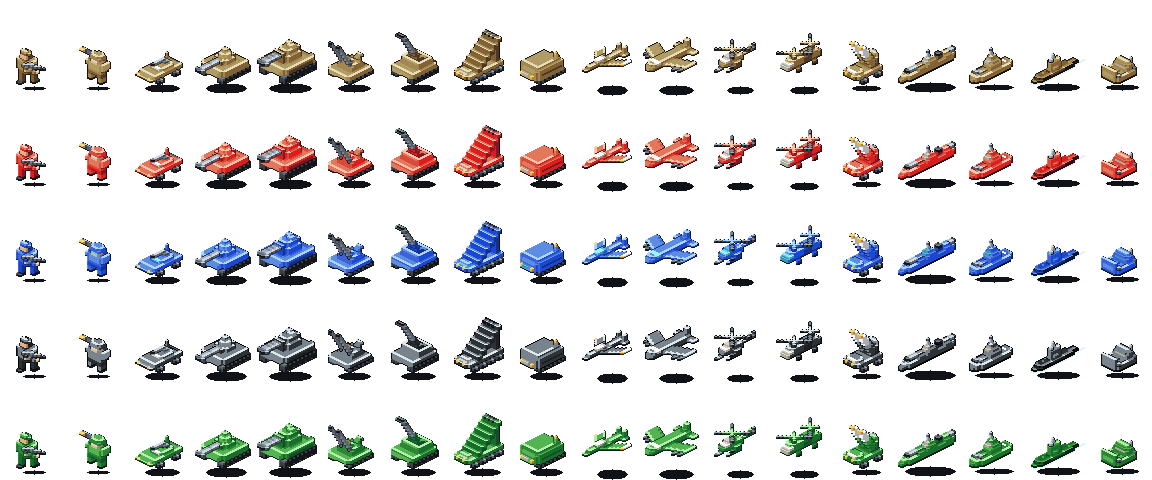
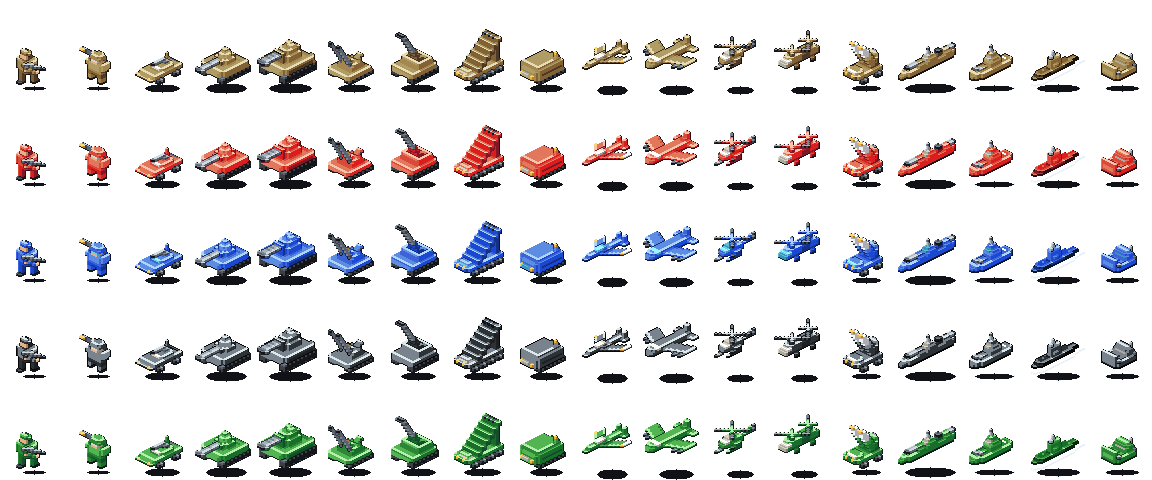
Anchor every pose to the cell, and bob a whole board texel
A cell placed each pose by centring its OWN rendered bbox and sized the
cast shadow off that pose's own sprite width. Both are properties of the
crop, not of the unit, so a key pose that changes the crop moves the
unit: t_copter's pose B is 4px wider than its A, which slid the whole
helicopter 2px sideways every beat and pumped its shadow from 159px to
173px with it. `test_land_units_keep_their_cast_shadow` skipped the
non-land kinds, which is how it shipped.

Placement is now by the model's SCREEN ORIGIN — `voxel.sprite_origin`,
pinned to pose A's box, cached per unit — and every shadow radius comes
from pose A's footprint width (compose_cell's `footprint_w`). Measured
over all 18 units: every voxel a pose shares with pose A lands on the
same cell pixel, and every cast shadow is pixel-identical across the
beat.

The bob is `atlas.BOB_PX = 4`, one board texel, in place of the old 1px.
The board draws this 64x96 cell at 0.25 scale, so 1px moved no visible
pixel at all — it only changed which source pixel the resample kept,
which is a flicker and not a hover. What holds still under it is the
SURFACE (compose_cell's `ground`): the cast shadow, a ship's
displacement ellipse, its running wake and its waterline foam all stay
on the water, so an aircraft gains altitude over its own shadow and a
hull rides a swell past a fixed foam line.

Two other readings of the sea bob were rendered and measured first.
Settling the hull into a pinned ellipse reads best by eye and buries the
[…]

diff --git a/spritegen/voxel.py b/spritegen/voxel.py
@@ -182,6 +182,28 @@ def _bounds(model: Model, k: int = 1) -> tuple[Anchors, int, int, int, int]:
     return anchors, minx, miny, w, h
 
 
+def sprite_origin(model: Model, k: int = 1) -> tuple[int, int]:
+    """Where model space's screen origin sits inside the rendered sprite.
+
+    A sprite is cropped to the pose it holds, so its top-left corner is a
+    different point of the MODEL for every pose: the voxel at screen (sx, sy)
+    lands on sprite pixel (sx - minx, sy - miny). A caller that wants two
+    poses of one unit to stand in the same place therefore has to place them
+    by this origin — `(x0 - minx, y0 - miny)` equal — rather than by centring
+    each pose's own bounding box, which slides the whole model sideways every
+    time a limb or a rotor changes the crop (see `atlas.unit_cell`).
+    """
+    _, minx, miny, _, _ = _bounds(model, k)
+    return minx, miny
+
+
+def sprite_size(model: Model, k: int = 1) -> tuple[int, int]:
+    """The (width, height) `render` will crop this model to, without rendering
+    it — the other half of what pose-invariant placement needs."""
+    _, _, _, w, h = _bounds(model, k)
+    return w, h
+
+
 @dataclass
 class IndexedSprite:
     """A rendered sprite plus the material id behind every pixel.
@@ -829,6 +851,9 @@ def compose_cell(
     dx: int = 0,
     wake: bool = False,
     shadow: bool = True,
+    origin: tuple[int, int] | None = None,
+    footprint_w: int | None = None,
+    ground: int | None = None,
 ) -> Image.Image:
     """Center a rendered sprite on a transparent atlas cell with its shadow.
 
@@ -860,26 +885,41 @@ def compose_cell(
     pixels taken back out and can never be a second opinion on the art. The
     waterline foam is why that matters: it is placed against the composed
     cell's own spans, so a shadow that was never drawn would move the foam.
+
+    The last three arguments are what lets a SECOND pose of the same unit be
+    the same unit moving rather than a second composition. `origin` places the
+    sprite's top-left corner outright, so a caller can pin two crops by their
+    model origin (`sprite_origin`) instead of centring each one's own box.
+    `footprint_w` is the width every shadow radius is taken from — the unit's
+    footprint on the ground, which a raised rotor or a swung barrel does not
+    change. `ground` is the SURFACE the unit is over, which is not the row it
+    rides at once it bobs: the shadow, the displacement ellipse, the running
+    wake and the waterline foam all stay here, so a ship that rises a board
+    texel rides a swell instead of dragging the sea up with it. All three
+    default to the single-pose behaviour: centred crop, the sprite's own
+    width, and the surface right under the unit.
     """
     cell_w, cell_h = cell
     out = Image.new("RGBA", (cell_w, cell_h), (0, 0, 0, 0))
     w, h = sprite.size
     if bottom is None:
         bottom = cell_h - (AIR_BOTTOM if kind == "air" else GROUND_BOTTOM)
-    x0 = (cell_w - w) // 2 + dx
-    y0 = bottom - h
+    x0, y0 = origin if origin is not None else ((cell_w - w) // 2 + dx, bottom - h)
+    if ground is None:
+        ground = bottom
+    fw = w if footprint_w is None else footprint_w
 
     cast: list[tuple[int, int]] = []
     sx, sy = SHADOW_OFFSET
     if kind == "sea":
         # Ships sit IN the water: a flat displacement shading right under
         # the hull instead of a floating blob, then foam at the waterline.
-        rx = max(6, int(w * 0.42))
+        rx = max(6, int(fw * 0.42))
         cast = _shadow_ellipse(
-            out, cell_w // 2 + dx + sx, bottom - 1 + sy, rx, max(2, rx // 5)
+            out, cell_w // 2 + dx + sx, ground - 1 + sy, rx, max(2, rx // 5)
         )
     elif kind == "air":
-        rx = max(6, int(w * 0.30))
+        rx = max(6, int(fw * 0.30))
         cast = _shadow_ellipse(
             out,
             cell_w // 2 + dx + sx * 2,
@@ -888,15 +928,20 @@ def compose_cell(
             max(2, rx // 3),
         )
     elif kind == "land":
-        rx = max(4, int(w * 0.34))
+        rx = max(4, int(fw * 0.34))
         cast = _shadow_ellipse(
-            out, cell_w // 2 + dx + sx, bottom - 1 + sy, rx, max(2, rx // 4)
+            out, cell_w // 2 + dx + sx, ground - 1 + sy, rx, max(2, rx // 4)
         )
     place_in_cell(out, sprite, x0, y0)
     if kind == "sea":
         if wake:
-            _wake(out, sprite, x0, y0)
-        _waterline_foam(out)
+            # Running foam is the WATER's, not the hull's, so it is left on
+            # the surface: a bobbed hull rises out of its own wake rather than
+            # carrying it up. Measured on the sub, whose wake is a third of
+            # its silhouette, that is the difference between a frame B that
+            # reads as itself and one that reads as the battleship.
+            _wake(out, sprite, x0, ground - h)
+        _waterline_foam(out, ground)
     if not shadow:
         _erase_shadow(out, cast)
     return out
@@ -962,6 +1007,10 @@ def _wake(img: Image.Image, sprite: Image.Image, x0: int, y0: int) -> None:
     swallowed the whole length of it and left the hull nothing but its stern
     trail. `_erase_shadow` keeps a shadow pixel the wake has taken, so the
     figure sheet is unmoved by this.
+
+    `y0` is where the hull sits ON THE WATER, which is not always where it is
+    drawn: a bobbed hull passes the row it rose from, because the foam it
+    broke stays on the surface (see compose_cell's `ground`).
     """
     px = img.load()
     sp = sprite.load()
@@ -990,21 +1039,28 @@ def _wake(img: Image.Image, sprite: Image.Image, x0: int, y0: int) -> None:
         fleck(stern_x + k, y + 1)
 
 
-def _waterline_foam(img: Image.Image) -> None:
-    """Foam flecks just outside the hull along its real waterline rows.
+def _waterline_foam(img: Image.Image, ground: int) -> None:
+    """Foam flecks just outside the hull along its waterline rows.
 
-    The waterline is wherever the hull actually bottoms out, so the rows come
-    from the composed pixels rather than from the ground line the sprite was
-    placed against: `render` reserves a trailing empty row, and the dimetric
-    hull tapers to a narrow tip, so a fixed offset misses the wide part of
-    the wake. Flecks trail outward along the hull's last few rows, widest at
-    the bottom.
+    The rows come from the composed pixels rather than from a fixed offset:
+    `render` reserves a trailing empty row, and the dimetric hull tapers to a
+    narrow tip, so an offset measured off the sprite misses the wide part of
+    the wake. Measured on the 64x96 cell, the last four opaque rows of a ship
+    (battleship 90-93, cruiser 88-91, sub 89-92, lander 88-91) are the
+    displacement ellipse's own — the shape the hull cuts in the water, which
+    is exactly what the foam breaks around.
+
+    Only rows at or below `ground` are read, because only they are the water:
+    a hull bobbing a board texel above the surface is not a waterline however
+    low its own pixels reach, and skipping it is what leaves the foam line
+    where the still pose put it while the ship rides the swell. Flecks trail
+    outward along the last few rows, widest at the bottom.
     """
     px = img.load()
     w, h = img.size
     foam = FOAM
     spans = []
-    for yy in range(h):
+    for yy in range(max(0, ground), h):
         xs = [xx for xx in range(w) if px[xx, yy][3] == 255]
         if xs:
             spans.append((yy, min(xs), max(xs)))

diff --git a/spritegen/atlas.py b/spritegen/atlas.py
@@ -21,12 +21,23 @@ building cells    — <building>_<team>.png, one terrain cell each, RGBA
 
 from __future__ import annotations
 
+from typing import NamedTuple
+
 from PIL import Image
 
 from . import aa, autotile, buildings, terrain
 from .palette import FACTIONS, Faction
 from .units import ATLAS_ORDER, UNITS, WAKE, Pose, build_model
-from .voxel import compose_cell, place_in_cell, render, render_indexed
+from .voxel import (
+    AIR_BOTTOM,
+    GROUND_BOTTOM,
+    compose_cell,
+    place_in_cell,
+    render,
+    render_indexed,
+    sprite_origin,
+    sprite_size,
+)
 
 # The units atlas's cell: one tile wide, half a tile taller than that. A
 # silhouette with more mass than the grass tile it stands on has to overflow
@@ -36,13 +47,82 @@ from .voxel import compose_cell, place_in_cell, render, render_indexed
 # turret needs; a taller cell than that is mostly empty column.
 CELL_W = 64
 CELL_H = 96
-# Ambient animation frame B is pose B of every model plus this bob: air and
-# sea units ride one voxel-scale pixel higher (their shadows stay put, so the
-# bob reads as hover/swell). Land units hold their ground line and say it in
-# the model instead — a walked tread, a settled suspension, a rested weapon.
-# Stated as heights above the cell's bottom edge, like compose_cell's own
-# landmarks.
-_BOB_BOTTOM = {"air": 21, "sea": 10}
+# Ambient animation frame B is pose B of every model plus this bob, for the
+# kinds that are not standing on the ground. It is ONE BOARD TEXEL: the board
+# draws this 64x96 cell at 0.25 scale, so four atlas pixels are one texel at
+# zoom rung 1 and a whole texel at every rung above it — the argument
+# `_shadow_ellipse` makes about parity, made about motion. The 1px bob this
+# replaces moved no visible pixel at all; it only changed which source pixel
+# the resample kept, which is a flicker across a third of the sprite and a
+# hover nowhere.
+#
+# What stays put under the bob is the SURFACE — cast shadow, displacement
+# ellipse, wake and waterline foam all sit on compose_cell's `ground` — so an
+# aircraft gains altitude over its own shadow and a ship rides a swell past a
+# fixed foam line, instead of the sea heaving with the hull.
+#
+# Two other readings of the sea bob were rendered and measured against this
+# one. Settling the hull INTO a pinned ellipse reads best of the three by eye
+# and buries it: the sheet's shadow-direction gate then measures the sub's
+# remaining crescent as lying 0.64px up-LEFT of its caster, where the ellipse
+# is laid 2px down-right. Bobbing the hull with its wake still attached costs
+# the sub its identity — frame B then resembles the BATTLESHIP's frame A
+# (0.682 IoU) more than its own (0.672) — which is what says the wake belongs
+# to the water; left there, the sub scores 0.698 against its own frame A and
+# 0.604 against the nearest other unit.
+#
+# Land units hold their ground line and say the beat in the model instead — a
+# walked tread, a settled suspension, a rested weapon.
+BOB_PX = 4
+_BOBBING = frozenset({"air", "sea"})
+
+# Pose A's crop, per unit id, as (minx, miny, width, height): the placement
+# reference every other pose is pinned to. Poses differ in extent — t_copter's
+# pose B is 4px wider than its A — so centring each pose's OWN bounding box
+# slid the whole helicopter 2px sideways every beat and pumped its cast shadow
+# by 9% (159px to 173px) with it. Cached because the sheet composes each unit
+# 20 times (5 rows x 2 poses x 2 shadow variants) and this costs a model build,
+# not a render: `sprite_origin` and `sprite_size` read the crop off the voxels.
+_POSE_A_BOX: dict[str, tuple[int, int, int, int]] = {}
+
+
+def _pose_a_box(uid: str) -> tuple[int, int, int, int]:
+    box = _POSE_A_BOX.get(uid)
+    if box is None:
+        model = build_model(uid, Pose.A)
+        box = _POSE_A_BOX[uid] = (*sprite_origin(model), *sprite_size(model))
+    return box
+
+
+class Placement(NamedTuple):
+    """Where one pose of one unit goes in its cell.
+
+    `origin` is the cell pixel model space's screen origin lands on — NOT the
+    sprite's top-left, which is a different point of the model in every pose.
+    Pinning it is what makes an idle beat a unit MOVING rather than a unit
+    sliding: it is the same pair for both poses of a land unit, and `BOB_PX`
+    higher for pose B of an air or sea one.
+
+    `footprint_w` and `ground` are pose-invariant by construction — the width
+    every cast shadow is sized from and the surface row it sits on — so the
+    origin is the only one of the three a beat may move.
+    """
+
+    origin: tuple[int, int]
+    footprint_w: int
+    ground: int
+
+
+def cell_placement(uid: str, pose: Pose) -> Placement:
+    kind = UNITS[uid][1]
+    minx_a, miny_a, w_a, h_a = _pose_a_box(uid)
+    ground = CELL_H - (AIR_BOTTOM if kind == "air" else GROUND_BOTTOM)
+    bob = BOB_PX if pose is Pose.B and kind in _BOBBING else 0
+    # Pose A's own placement — centred on the cell, anchored to the ground row
+    # — with every other pose hung off that same origin.
+    return Placement(
+        ((CELL_W - w_a) // 2 - minx_a, ground - h_a - miny_a - bob), w_a, ground
+    )
 
 
 def unit_cell(
@@ -51,8 +131,9 @@ def unit_cell(
     """One atlas cell. Units render through the indexed ramps; terrain and
     buildings keep the shading renderer until their own pass moves them."""
     kind = UNITS[uid][1]
-    bob = _BOB_BOTTOM.get(kind) if pose is Pose.B else None
     model = build_model(uid, pose)
+    place = cell_placement(uid, pose)
+    minx, miny = sprite_origin(model)
     # Softening is the LAST word on the art (see spritegen.aa): after the
     # contour and the despeckle, before the cell composes a shadow under it —
     # the shadow is not the unit's silhouette and has no staircase of its own
@@ -62,7 +143,9 @@ def unit_cell(
         sprite,
         kind,
         cell=(CELL_W, CELL_H),
-        bottom=None if bob is None else CELL_H - bob,
+        origin=(place.origin[0] + minx, place.origin[1] + miny),
+        footprint_w=place.footprint_w,
+        ground=place.ground,
         wake=uid in WAKE,
         shadow=shadow,
     )

diff --git a/tests/test_generated_output.py b/tests/test_generated_output.py
@@ -2261,20 +2261,41 @@ class AmbientFrames(unittest.TestCase):
                 with self.subTest(unit=uid, faction=fac.key):
                     self.assertLess(abs(b - a) / a, self.MAX_MASS_DRIFT)
 
-    def test_land_units_keep_their_cast_shadow(self):
-        """A land unit is parked: it shifts its weight, and the patch of
-        ground it stands on may not move a pixel with it. That holds as long
-        as a land key pose only rises or settles — compose_cell sizes the
-        shadow off the sprite's WIDTH, which z motion cannot change."""
+    def test_every_unit_keeps_its_cast_shadow(self):
+        """A parked unit shifts its weight, and the patch of ground it stands
+        on may not move a pixel with it.
+
+        This used to be asked of land units alone, and an air or sea shadow
+        was sized off the POSE's own sprite width: t_copter's pose B is 4px
+        wider than its A, so its shadow pumped from 159px to 173px — 9% —
+        every beat, and the whole helicopter slid 2px sideways with it. Sized
+        off the pose-A footprint and laid on the pose-A ground row instead
+        (compose_cell's `footprint_w` and `ground`), every kind's shadow now
+        holds still through the bob the way a land unit's always did.
+        """
         for uid in ATLAS_ORDER:
-            if UNITS[uid][1] != "land":
-                continue
             for fac in FACTIONS:
                 with self.subTest(unit=uid, faction=fac.key):
                     self.assertEqual(
                         self._shadow(atlas.unit_cell(uid, fac)),
                         self._shadow(atlas.unit_cell(uid, fac, Pose.B)),
                     )
+
+    def test_both_poses_stand_on_the_same_cell_coordinate(self):
+        """Pose B is the same unit moving, so model space's screen origin
+        lands on the same cell pixel in both — a land unit exactly, an air or
+        sea one exactly one board texel higher, which is the bob and nothing
+        else. The footprint the shadow is sized from and the ground row it
+        sits on are the same number for both poses, whatever the crops do."""
+        for uid in ATLAS_ORDER:
+            a = atlas.cell_placement(uid, Pose.A)
+            b = atlas.cell_placement(uid, Pose.B)
+            bob = atlas.BOB_PX if UNITS[uid][1] in ("air", "sea") else 0
+            with self.subTest(unit=uid):
+                self.assertEqual(a.footprint_w, b.footprint_w)
+                self.assertEqual(a.ground, b.ground)
+                self.assertEqual(a.origin[0], b.origin[0])
+                self.assertEqual(a.origin[1] - b.origin[1], bob)
 
     def test_air_and_sea_units_move_between_frames(self):
         red = faction_by_key("red")

diff --git a/spritegen/units.py b/spritegen/units.py
@@ -85,11 +85,11 @@ def _tire(m: Model, x: int, y: int, big: bool = False) -> None:
 def _settle(m: Model, x0: int, x1: int, y0: int, y1: int, z0: int, z1: int) -> None:
     """Drop a whole sub-assembly one voxel: the suspension/weight key pose.
 
-    Movement is in z only, on purpose. A model's screen WIDTH is a function
-    of its x/y extents alone, and compose_cell sizes and places the cast
-    shadow off that width, so a pose that only rises or settles leaves a land
-    unit's shadow pixel-identical — the unit shifts its weight, the patch of
-    ground it stands on does not.
+    Movement is in z only, on purpose: what settles is the machine on its
+    springs, not the machine on the map. The cast shadow no longer depends on
+    that restraint — `atlas.cell_placement` sizes and places every pose's
+    shadow off pose A's footprint — but the read does. A unit that shifts its
+    weight is parked; one that shifts in x or y has driven off.
     """
     moved = {
         (x, y, z): m.vox[(x, y, z)]

diff --git a/README.md b/README.md
@@ -200,7 +200,7 @@ python3 -m venv .venv
 | File | Contract |
 | --- | --- |
 | `units_atlas.png` | 1152x480 RGBA — 64x96 cells, drop-in `assets/tiles/units_atlas.png` |
-| `units_atlas_b.png` | ambient animation frame B: every unit's second key pose (`units.Pose.B`) — treads walked, suspensions settled, rotors swept, air and sea bobbed |
+| `units_atlas_b.png` | ambient animation frame B: every unit's second key pose (`units.Pose.B`) — treads walked, suspensions settled, rotors swept, air and sea bobbed one board texel (`atlas.BOB_PX`) over a shadow, a wake and a foam line that stay on the surface. Every pose is placed by the model's screen origin, never by its own crop, so a beat moves the unit and not the cell |
 | `units_atlas_figures.png` | the same army with the tile's cast shadow subtracted, for the cut-ins (see below) |
 | `terrain_atlas.png` | 896x320 RGBA — drop-in `assets/tiles/terrain_atlas.png`; property columns carry alpha |
 | `units/<id>_<team>.png` | 90 cells, the inputs `tools/paste_unit_sprites.gd` reads |
